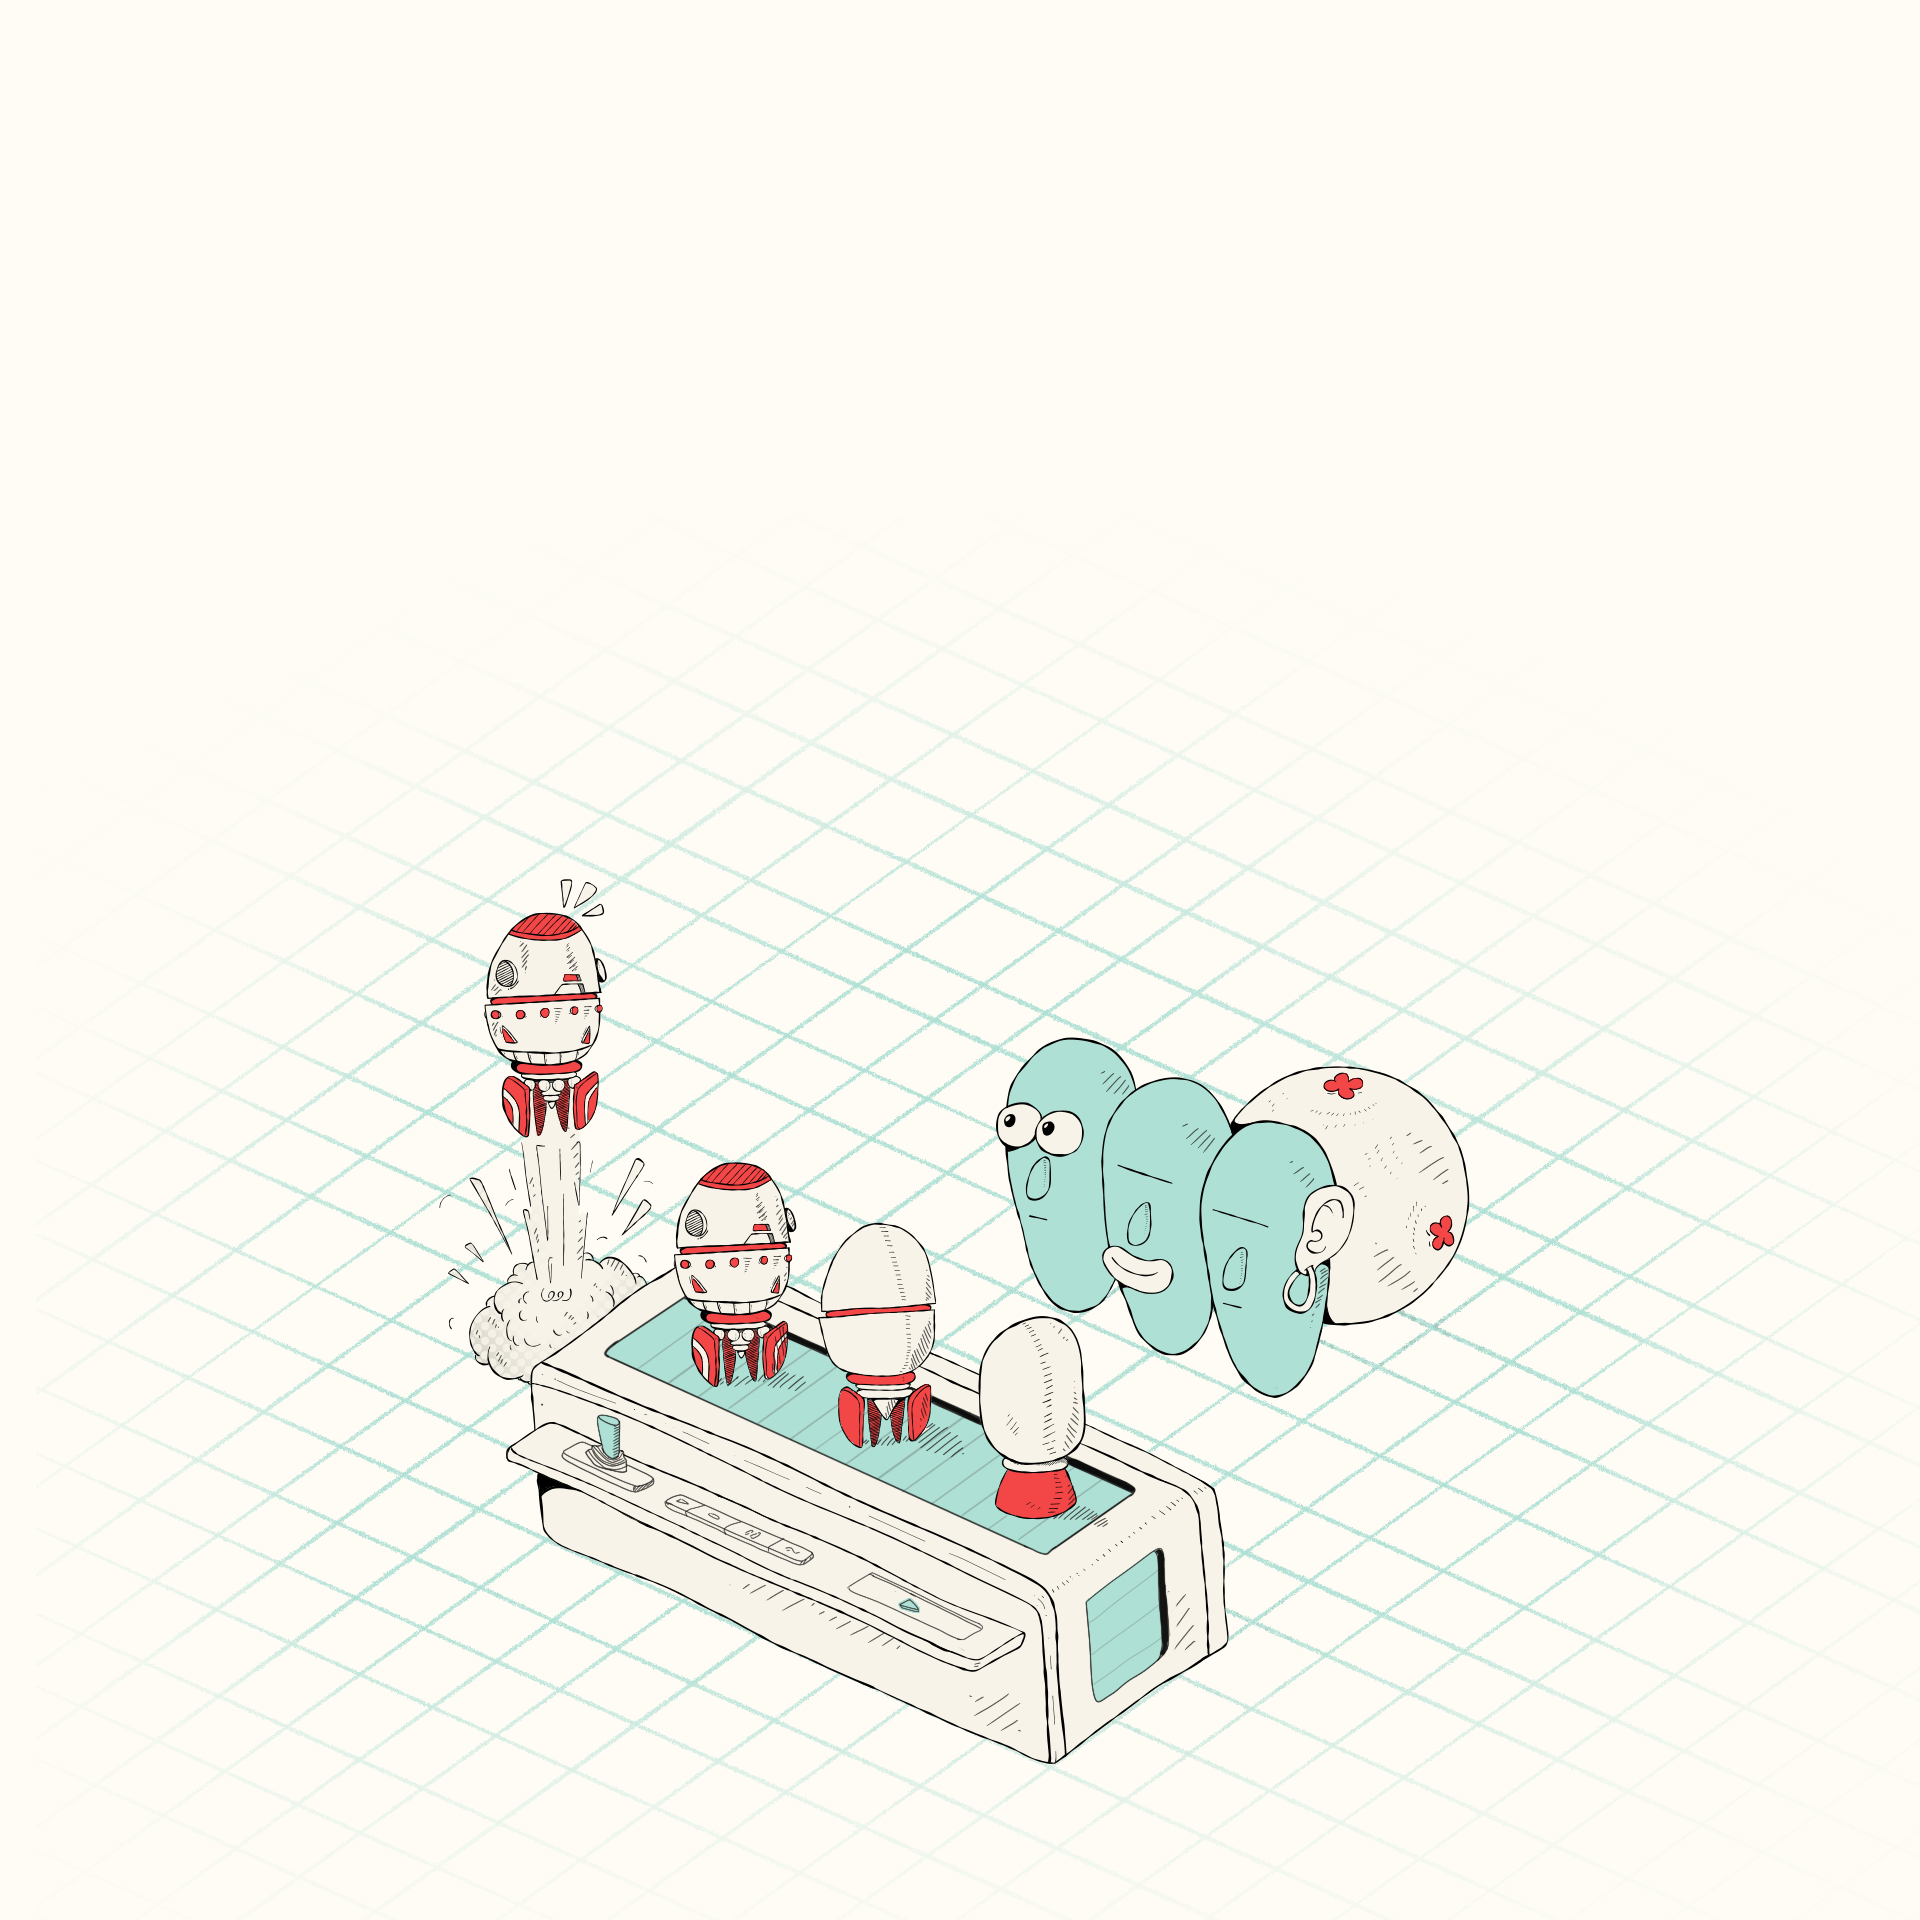
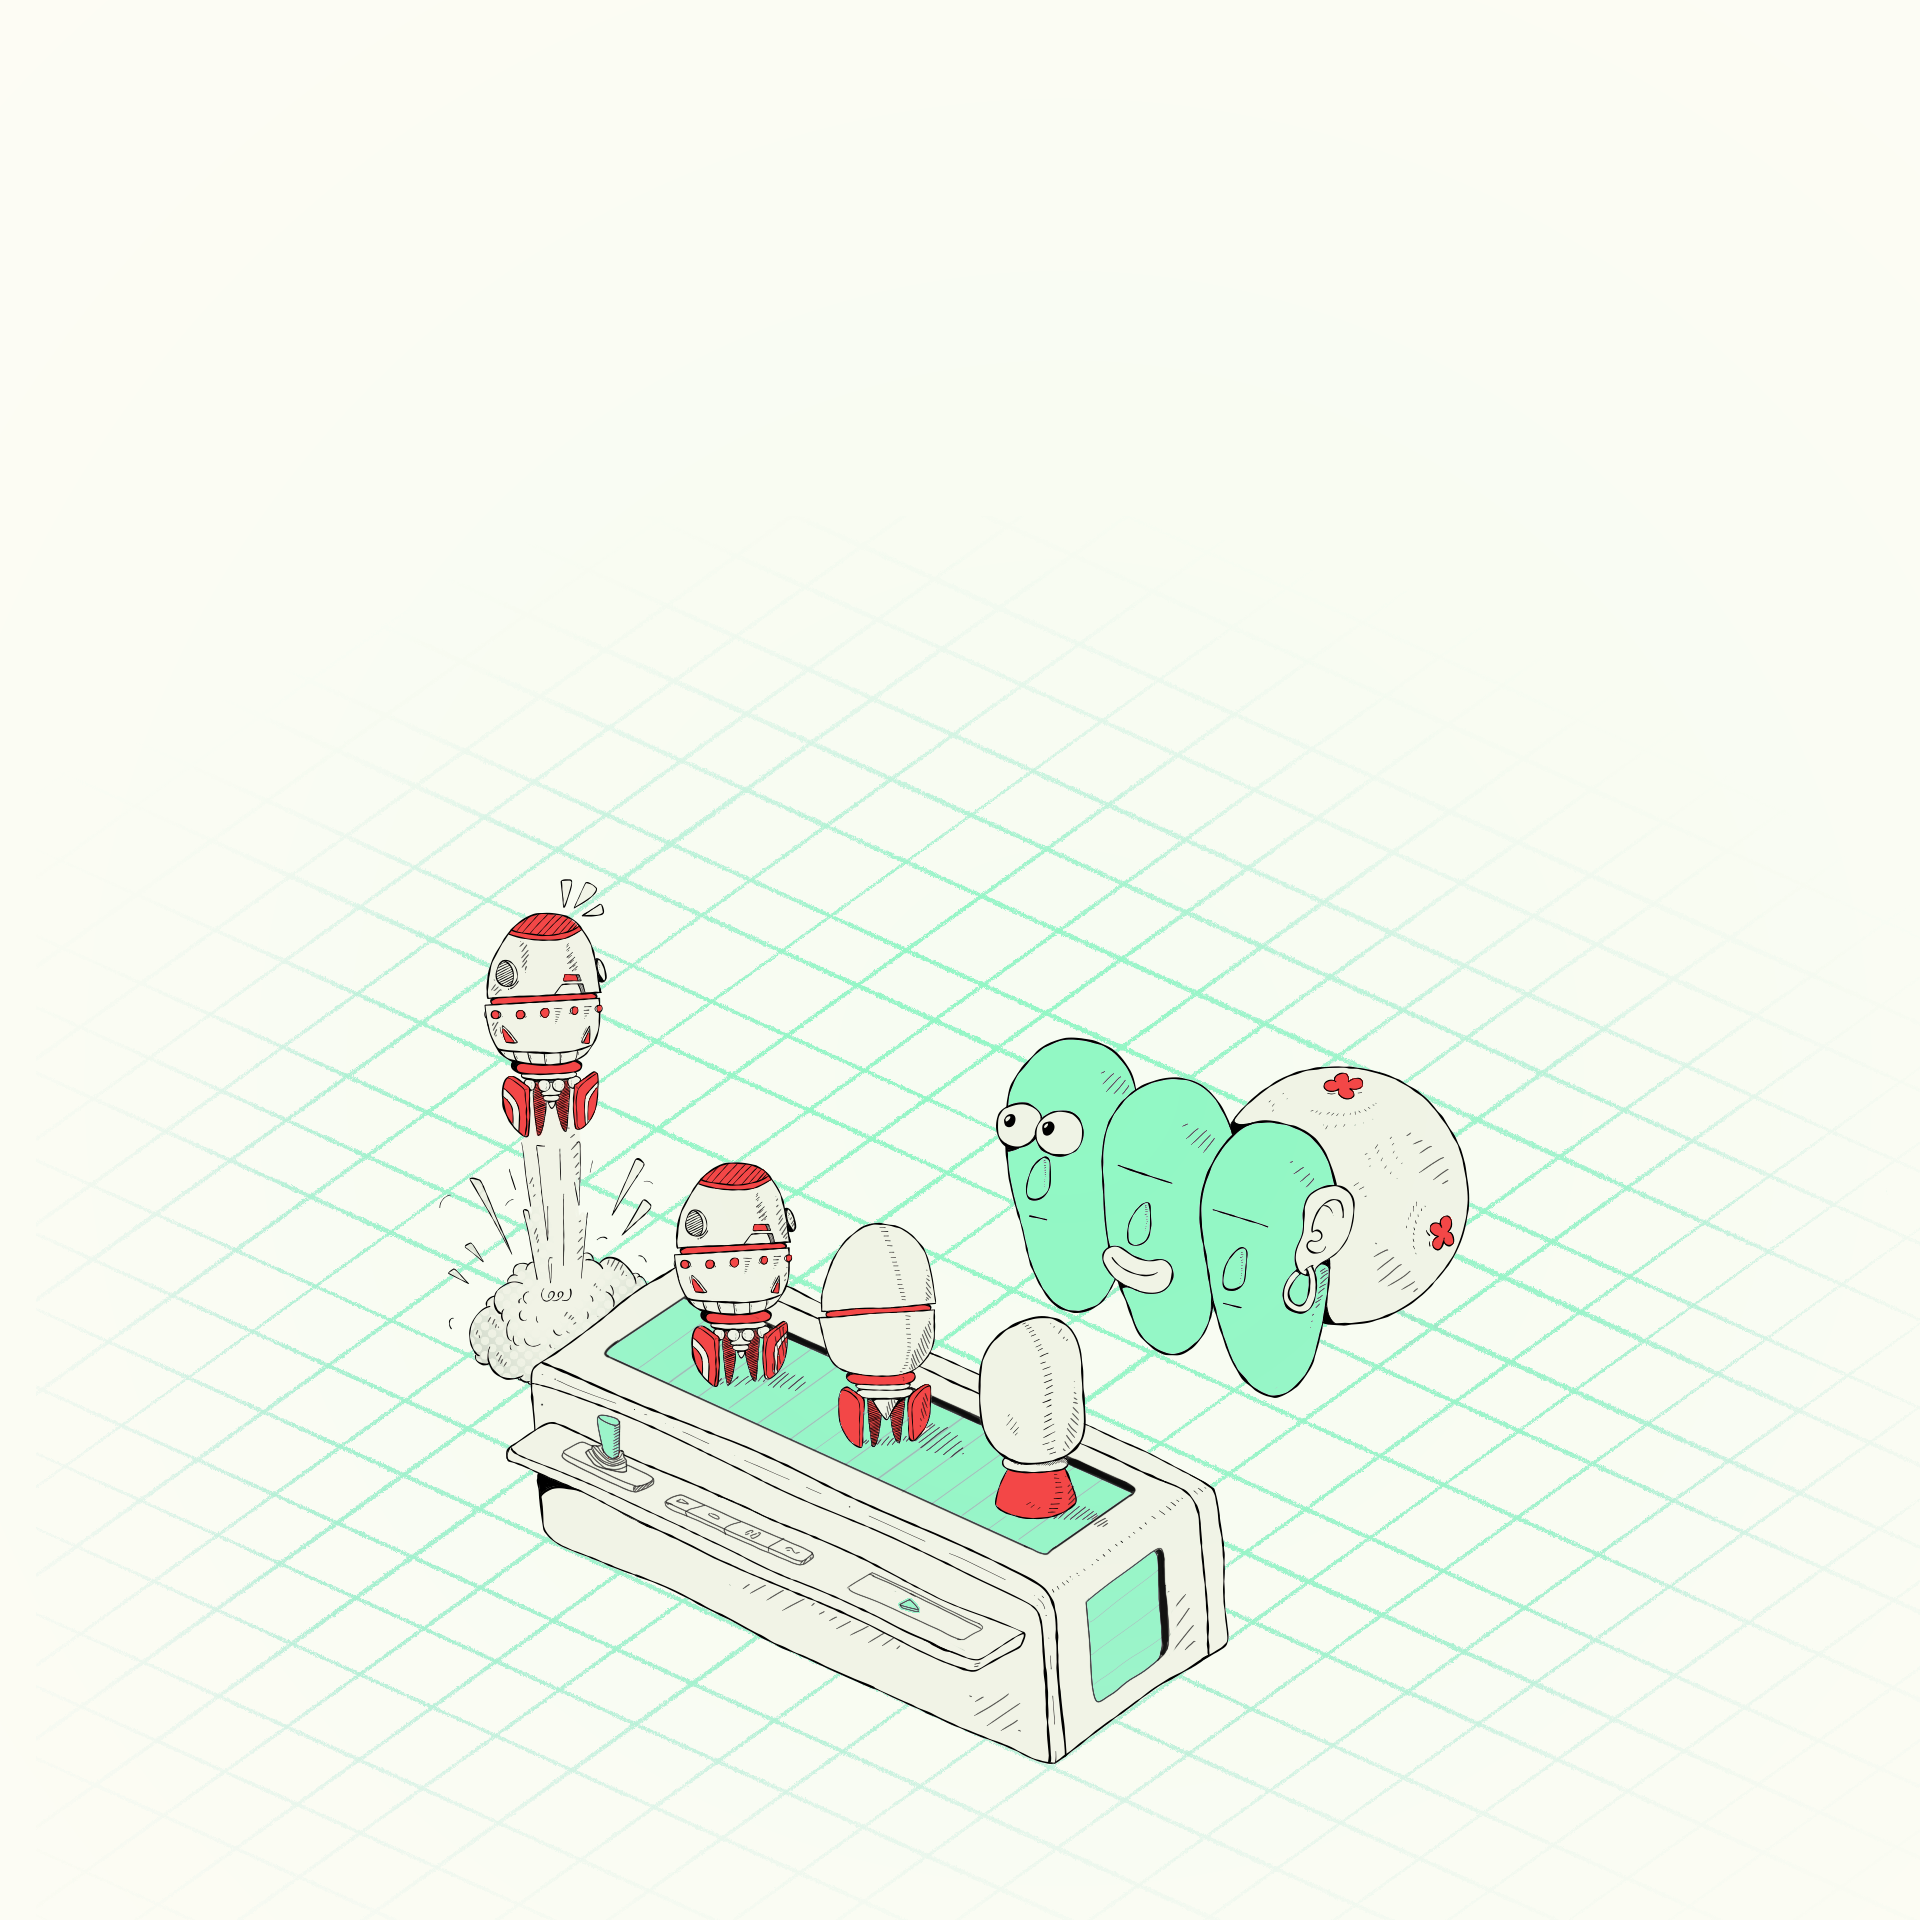
feat(theme): add merch dark voxel art
Dark merch previously reused the light asset.
Hero light refreshed; home subcopy shrinks on small screens.

diff --git a/app/(site)/page.tsx b/app/(site)/page.tsx
@@ -43,7 +43,7 @@ export default async function HomePage() {
               </h1>
             }
             subcopy={
-              <p className="mt-24 max-w-xl text-body-lg  text-surface-50">
+              <p className="mt-24 max-w-xl text-body-sm sm:text-body-lg  text-surface-50">
                 استودیو خلاق موکیوب — هویت برند، تصویرسازی، وب و مرچندایز برای
                 برندهایی که میخواهند دیده شوند.
               </p>

diff --git a/lib/service-images.ts b/lib/service-images.ts
@@ -10,6 +10,6 @@ export const serviceImages: Partial<Record<string, ThemeImagePair>> = {
   },
   merch: {
     light: "/merchandise-light.webp",
-    dark: "/merchandise-light.webp",
+    dark: "/merchandise-dark.webp",
   }
 };
